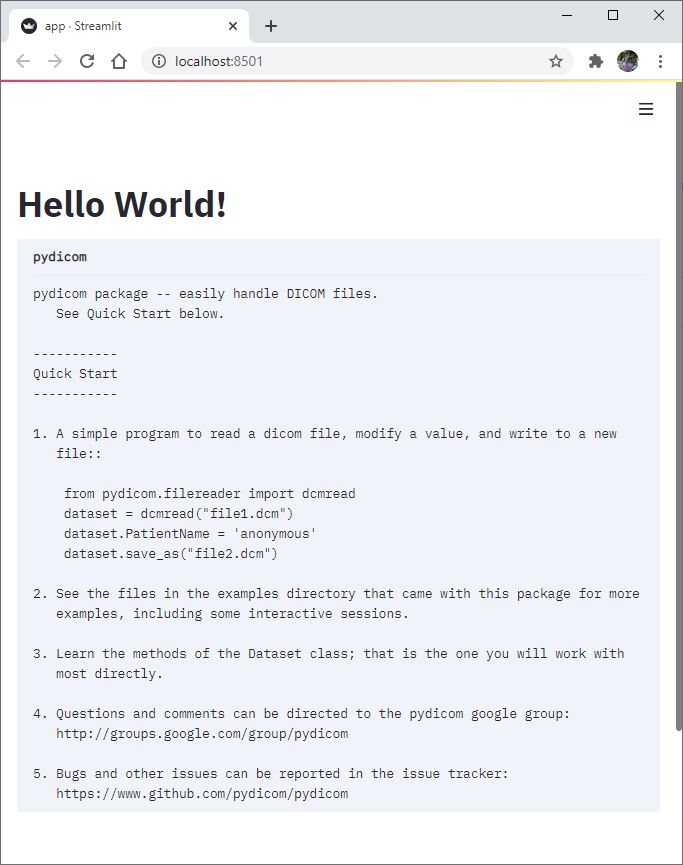
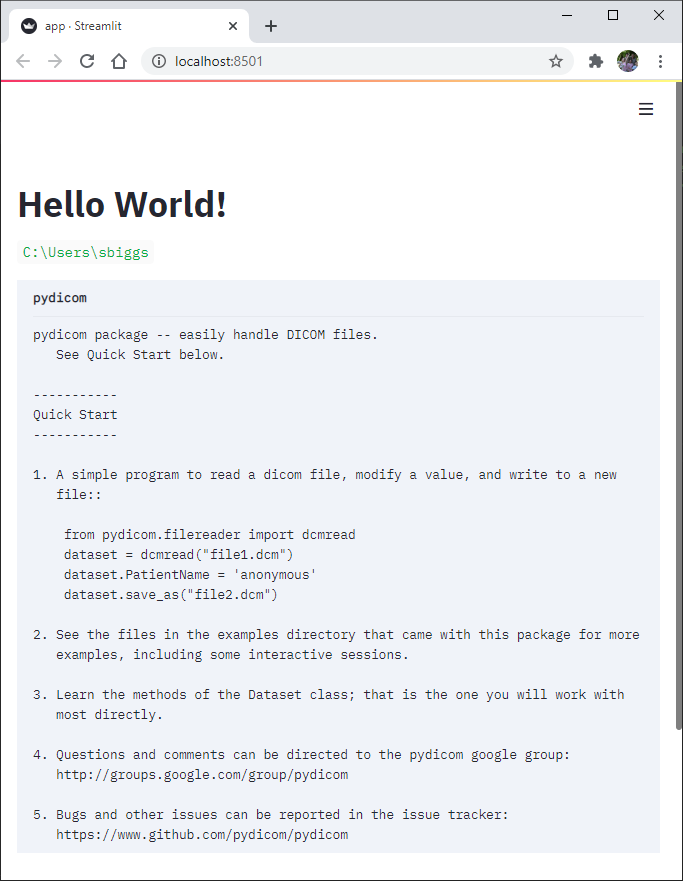
add the user's home path to the screenshot

diff --git a/app.py b/app.py
@@ -12,6 +12,7 @@
 # See the License for the specific language governing permissions and
 # limitations under the License.
 
+import pathlib
 
 import pydicom
 
@@ -19,5 +20,7 @@ import streamlit as st
 
 
 st.title("Hello World!")
+
+st.write(pathlib.Path.home())
 
 st.write(pydicom)
